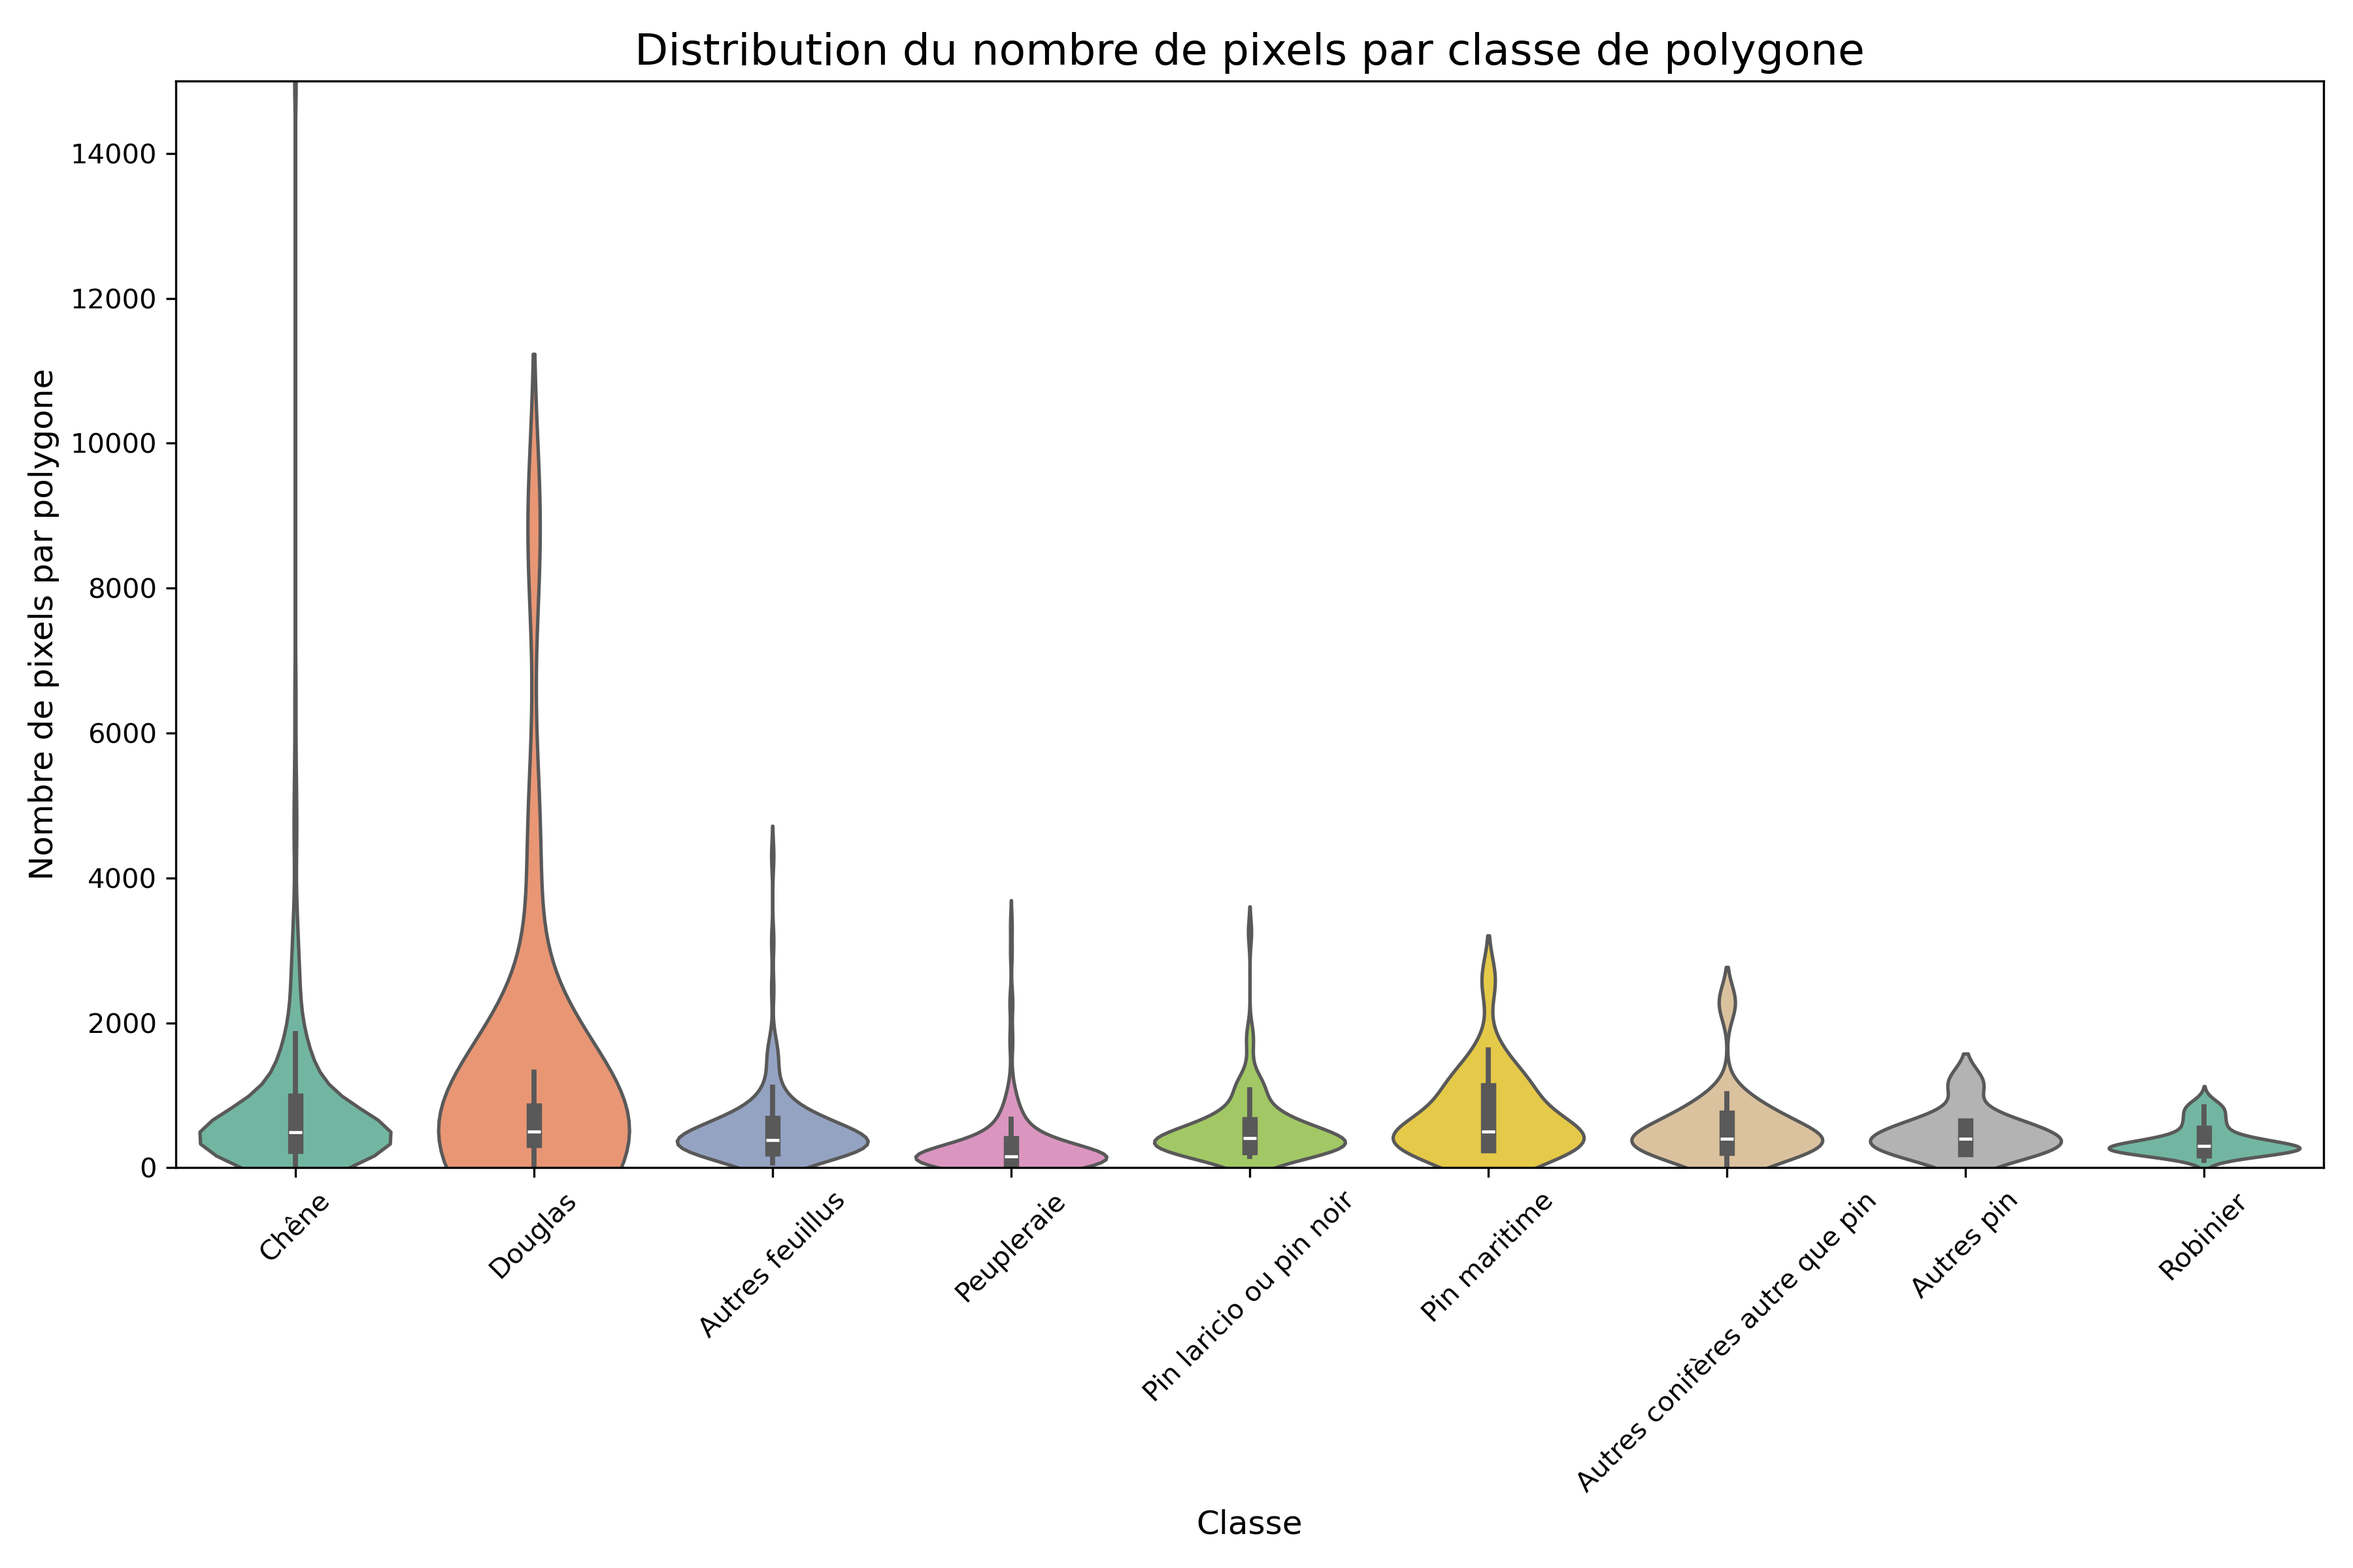
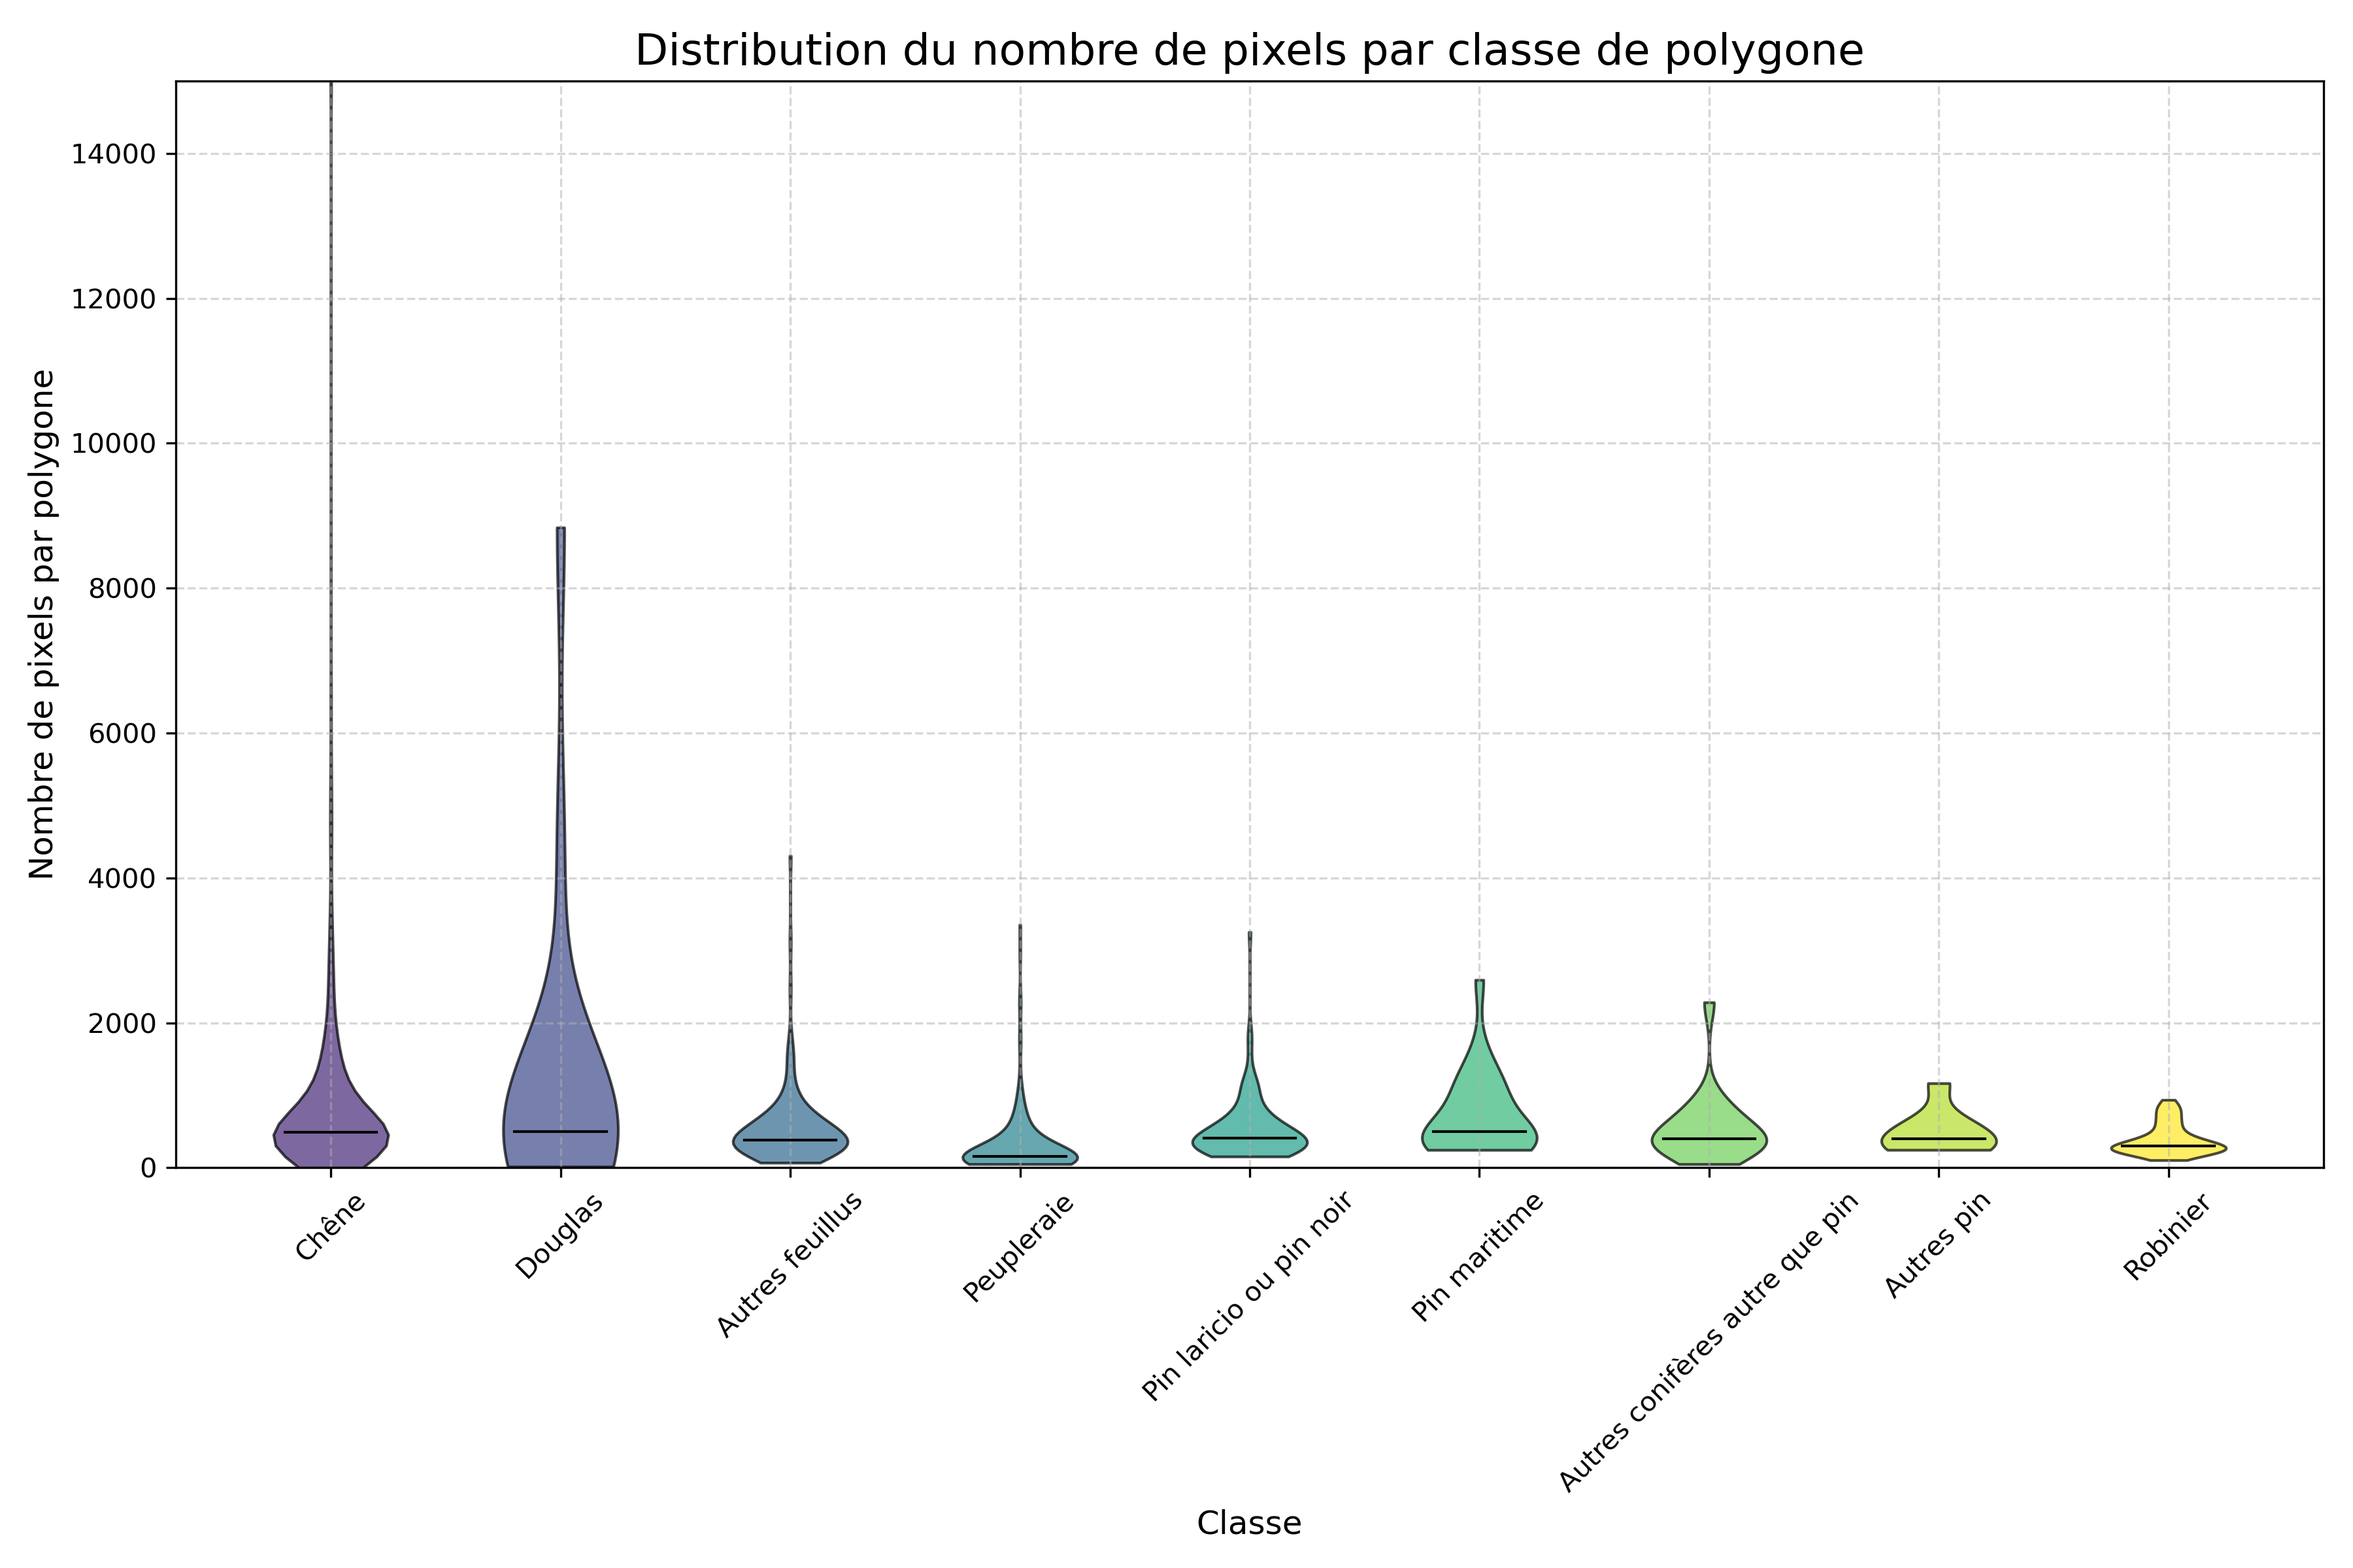
seaborn remplacé par matplotlib

diff --git a/scripts/my_function_robin.py b/scripts/my_function_robin.py
@@ -17,7 +17,6 @@ import numpy as np
 from osgeo import gdal, ogr, osr
 import geopandas as gpd
 import matplotlib.pyplot as plt
-import seaborn as sns
 
 # GDAL configuration
 gdal.UseExceptions()
@@ -736,7 +735,7 @@ def sample_data_analysis(shapefile_path, raster_path, classes_a_conserver, outpu
     Fonction pour analyser les échantillons : 
     - 1 Créer un diagramme bâton du nombre de polygones par classe.
     - 2 Créer un diagramme bâton du nombre de pixels du raster de référence par classe.
-    - 3 Créer un violin plot de la distribution du nombre de pixels par classe de polygone.
+    - 3 Créer un violon plot de la distribution du nombre de pixels par classe de polygone, amélioré visuellement.
 
     :param shapefile_path: Chemin du fichier shapefile
     :param raster_path: Chemin du fichier raster
@@ -781,28 +780,16 @@ def sample_data_analysis(shapefile_path, raster_path, classes_a_conserver, outpu
     class_counts = gdf_filtre[classe_colonne].value_counts()
     class_counts_sorted = class_counts.sort_values(ascending=False)
     plt.figure(figsize=(10, 6))
-
-    # Création des barres
     bars = plt.bar(class_counts_sorted.index, class_counts_sorted.values, color='skyblue', edgecolor='black')
-
-    # Ajouter les valeurs au-dessus des barres
     for bar in bars:
         height = bar.get_height()
-        plt.text(
-            bar.get_x() + bar.get_width() / 2,
-            height + 0.5,
-            f'{int(height)}',
-            ha='center', va='bottom', fontsize=10
-        )
+        plt.text(bar.get_x() + bar.get_width() / 2, height + 0.5, f'{int(height)}', ha='center', va='bottom', fontsize=10)
 
-    # Ajouter le titre et les labels
     plt.title("Nombre de polygones par classe", fontsize=16)
     plt.xlabel("Classe", fontsize=12)
     plt.ylabel("Nombre de polygones", fontsize=12)
     plt.xticks(rotation=45)
     plt.tight_layout()
-
-    # Enregistrer le graphique
     output_path = os.path.join(output_dir, "diag_baton_nb_poly_by_class.png")
     plt.savefig(output_path, dpi=300)
     plt.close()
@@ -810,25 +797,14 @@ def sample_data_analysis(shapefile_path, raster_path, classes_a_conserver, outpu
 
     # 2. Diagramme bâton du nombre de pixels du raster par classe
     logger.info("Rasterisation des polygones pour compter les pixels par classe...")
-
-    # Classes avec des identifiants uniques
     class_to_id = {classe: idx + 1 for idx, classe in enumerate(classes_a_conserver)}
-
-    # Rasteriser en mémoire
     mem_driver = gdal.GetDriverByName('MEM')
-    rasterized_ds = mem_driver.Create(
-        '',
-        cols,
-        rows,
-        1,
-        gdal.GDT_Byte
-    )
+    rasterized_ds = mem_driver.Create('', cols, rows, 1, gdal.GDT_Byte)
     rasterized_ds.SetGeoTransform(geo_transform)
     rasterized_ds.SetProjection(projection)
     rasterized_ds.GetRasterBand(1).SetNoDataValue(0)
     rasterized_ds.GetRasterBand(1).Fill(0)
 
-    # Définir le système de référence
     source_srs = osr.SpatialReference()
     source_srs.ImportFromWkt(projection)
 
@@ -842,7 +818,6 @@ def sample_data_analysis(shapefile_path, raster_path, classes_a_conserver, outpu
         mem_ogr_driver = ogr.GetDriverByName('Memory')
         mem_ogr_ds = mem_ogr_driver.CreateDataSource('memData')
         mem_ogr_layer = mem_ogr_ds.CreateLayer('memLayer', srs=source_srs, geom_type=ogr.wkbPolygon)
-
         for geom in gdf_classe.geometry:
             if geom is None or geom.is_empty:
                 continue
@@ -852,101 +827,78 @@ def sample_data_analysis(shapefile_path, raster_path, classes_a_conserver, outpu
             mem_ogr_layer.CreateFeature(feature)
             feature = None
 
-        # Rasteriser la couche en mémoire
-        err = gdal.RasterizeLayer(
-            rasterized_ds,
-            [1],
-            mem_ogr_layer,
-            burn_values=[id_val]
-        )
-        if err != gdal.CE_None:
-            logger.error(f"Erreur lors de la rasterisation de la classe '{classe}'.")
+        gdal.RasterizeLayer(rasterized_ds, [1], mem_ogr_layer, burn_values=[id_val])
         mem_ogr_ds = None
 
-    # Lire les données rasterisées en mémoire
     rasterized_array = rasterized_ds.GetRasterBand(1).ReadAsArray()
     rasterized_ds = None
-
-    logger.info("Comptage des pixels par classe...")
     pixels_per_class = {classe: np.sum(rasterized_array == id_val) for classe, id_val in class_to_id.items()}
-
     pixels_per_class_sorted = dict(sorted(pixels_per_class.items(), key=lambda item: item[1], reverse=True))
 
     plt.figure(figsize=(10, 6))
     classes = list(pixels_per_class_sorted.keys())
     counts = list(pixels_per_class_sorted.values())
     bars = plt.bar(classes, counts, color='lightgreen', edgecolor='black')
-
     for bar in bars:
         height = bar.get_height()
-        plt.text(
-            bar.get_x() + bar.get_width() / 2,
-            height + max(counts) * 0.01,
-            f'{int(height)}',
-            ha='center', va='bottom', fontsize=10
-        )
+        plt.text(bar.get_x() + bar.get_width() / 2, height + max(counts) * 0.01, f'{int(height)}', ha='center', va='bottom', fontsize=10)
 
     plt.title("Nombre de pixels du raster par classe", fontsize=16)
     plt.xlabel("Classe", fontsize=12)
     plt.ylabel("Nombre de pixels", fontsize=12)
     plt.xticks(rotation=45)
     plt.tight_layout()
-
     output_path_pixels = os.path.join(output_dir, "diag_baton_nb_pixels_by_class.png")
     plt.savefig(output_path_pixels, dpi=300)
     plt.close()
     logger.info(f"Diagramme bâton des pixels sauvegardé : {output_path_pixels}")
 
-    # 3. Création du violin plot de la distribution du nombre de pixels par classe de polygone
-    logger.info("Calcul du nombre de pixels par polygone pour chaque classe...")
-
-    # Calcul de la surface de chaque polygone
-    logger.info("Calcul de la surface de chaque polygone...")
+    # 3. Création du violon plot
+    logger.info("Création du violon plot...")
     gdf_filtre['area'] = gdf_filtre.geometry.area
-
-    # Obtenir la taille d'un pixel du raster
     pixel_width = geo_transform[1]
     pixel_height = -geo_transform[5]
-
-    # Calculer la surface d'un pixel
     pixel_area = pixel_width * pixel_height
-
-    logger.info(f"Taille d'un pixel : largeur={pixel_width}, hauteur={pixel_height}, surface={pixel_area}")
-
-    # Calculer le nombre de pixels par polygone
     gdf_filtre['pixel_count'] = gdf_filtre['area'] / pixel_area
 
-    # Créer un DataFrame avec les colonnes 'Classe' et 'pixel_count'
     df_pixels_per_polygon = gdf_filtre[[classe_colonne, 'pixel_count']].copy()
-
-    # Limiter le 'pixel_count' au maximum de 15 000 pour éliminer les outliers
     df_pixels_per_polygon['pixel_count_clipped'] = df_pixels_per_polygon['pixel_count'].clip(upper=15000)
-
-    # Calculer le maximum du nombre de pixels par classe pour ordonner les violons
     max_pixels_per_class = df_pixels_per_polygon.groupby(classe_colonne)['pixel_count_clipped'].max()
-
-    # Trier les classes dans l'ordre décroissant du maximum
     sorted_classes = max_pixels_per_class.sort_values(ascending=False).index.tolist()
 
-    # Création du violin plot
-    logger.info("Création du violin plot de la distribution du nombre de pixels par classe de polygone...")
+    violin_data = [
+        df_pixels_per_polygon[df_pixels_per_polygon[classe_colonne] == classe]['pixel_count_clipped'].dropna().values
+        for classe in sorted_classes
+    ]
+
     plt.figure(figsize=(12, 8))
-    sns.violinplot(
-        x=classe_colonne,
-        y='pixel_count_clipped',
-        data=df_pixels_per_polygon,
-        inner='box',
-        palette='Set2',
-        order=sorted_classes
-    )
+    # Création du violon plot
+    violin_parts = plt.violinplot(violin_data, showmeans=False, showextrema=False, showmedians=False)
+
+    # Choix des couleurs sur un dégradé
+    cmap = plt.cm.get_cmap('viridis')
+    for i, pc in enumerate(violin_parts['bodies']):
+        pc.set_facecolor(cmap((i+1)/len(violin_data)))
+        pc.set_edgecolor('black')
+        pc.set_alpha(0.7)
+
+    # Calcul et affichage des médianes et moyennes
+    for i, data in enumerate(violin_data):
+        median = np.median(data)
+        mean = np.mean(data)
+        x_pos = i+1
+        # Ligne pour la médiane
+        plt.plot([x_pos-0.2, x_pos+0.2], [median, median], color='black', linewidth=1)
+      
     plt.title("Distribution du nombre de pixels par classe de polygone", fontsize=16)
     plt.xlabel("Classe", fontsize=12)
     plt.ylabel("Nombre de pixels par polygone", fontsize=12)
-    plt.xticks(rotation=45)
-    plt.ylim(0, 15000) 
+    plt.xticks(ticks=range(1, len(sorted_classes) + 1), labels=sorted_classes, rotation=45)
+    plt.ylim(0, 15000)
+    plt.grid(True, linestyle='--', alpha=0.5)
     plt.tight_layout()
 
     output_path_violin = os.path.join(output_dir, "violin_plot_nb_pix_by_poly_by_class.png")
     plt.savefig(output_path_violin, dpi=300)
     plt.close()
-    logger.info(f"Violin plot de la distribution des pixels par polygone sauvegardé : {output_path_violin}")
+    logger.info(f"Violin plot sauvegardé : {output_path_violin}")

diff --git a/scripts/sample_analysis_nb_sample.py b/scripts/sample_analysis_nb_sample.py
@@ -15,7 +15,7 @@ Créé le 5 décembre 2024
 from my_function_robin import sample_data_analysis
 
 shapefile_path = "groupe_9/results/data/sample/Sample_BD_foret_T31TCJ.shp"
-raster_path = "groupe_9/results/data/img_pretraitees/Serie_temp_S2_ndvi.tif"
+raster_path = "groupe_9/results/data/img_pretraitees/mask_forest.tif"
 classes_a_conserver = [
     "Autres conifères autre que pin",
     "Autres feuillus",
